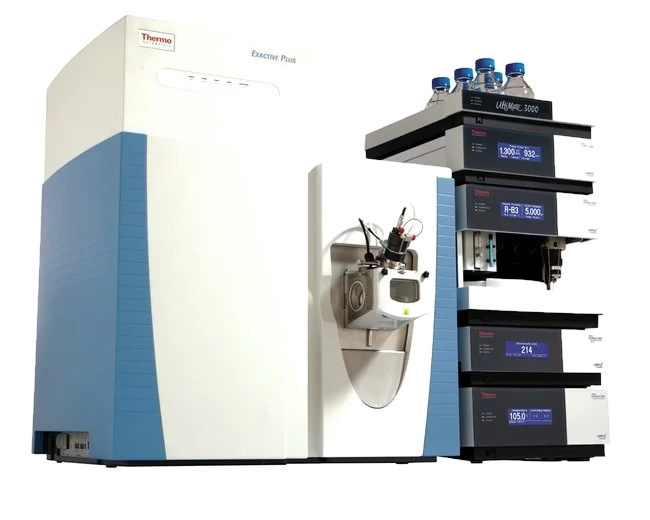
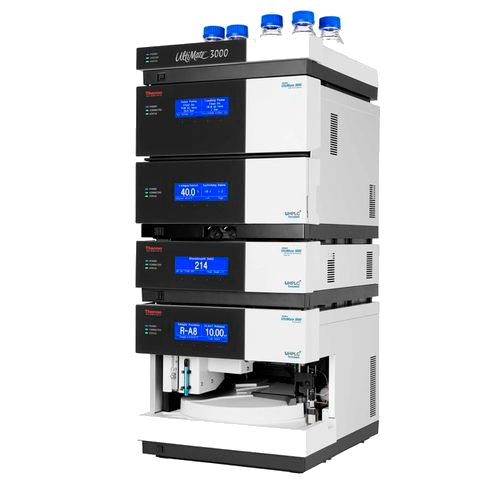
d

diff --git a/sections/experience.html b/sections/experience.html
@@ -347,11 +347,8 @@
 
         <article class="tech-slide">
           <div class="tech-card">
-            <div class="tech-visual tech-visual--grid">
-              <a class="tech-cell tech-cell--contain" href="https://www.thermofisher.com" target="_blank" rel="noopener noreferrer" title="LC–MS · Thermo Scientific Exactive Plus + UltiMate 3000 · Thermo Fisher Scientific"><img src="images/techniques/lc-ms.png" alt="LC–MS — Thermo Scientific Exactive Plus + UltiMate 3000" loading="lazy"></a>
-              <a class="tech-cell" href="https://commons.wikimedia.org/wiki/File:Bendix_Gas_Chromatograph_and_Mass_Spectrometer_-_DPLA_-_8e6bc200668f7d8c0a18e89af1cb3b4c_(page_1).jpg" target="_blank" rel="noopener noreferrer" title="GC–MS · Smithsonian Institution · No restrictions"><img src="images/techniques/gc-ms.jpg" alt="GC–MS instrument" loading="lazy"></a>
-              <a class="tech-cell" href="https://commons.wikimedia.org/wiki/File:Agilent_1200HPLC_and_6130_MS.jpg" target="_blank" rel="noopener noreferrer" title="HPLC–UV · Agilent 1200 · CC BY-SA 4.0"><img src="images/techniques/hplc-uv.jpg" alt="HPLC–UV — Agilent 1200" loading="lazy"></a>
-              <a class="tech-cell" href="https://commons.wikimedia.org/wiki/File:%D0%A5%D0%B8%D0%BC%D0%B8%D1%87%D0%B5%D1%81%D0%BA%D0%B8%D0%B9_%D1%84%D0%B0%D0%BA%D1%83%D0%BB%D1%8C%D1%82%D0%B5%D1%82_%D0%94%D0%BE%D0%BD%D0%9D%D0%A3_015.jpg" target="_blank" rel="noopener noreferrer" title="GC–FID · CC BY-SA 3.0"><img src="images/techniques/gc-fid.jpg" alt="GC–FID instrument" loading="lazy"></a>
+            <div class="tech-visual tech-visual--contain">
+              <img class="tech-product" src="images/techniques/lc-ms.png" alt="LC–MS — Thermo Scientific UltiMate 3000" loading="lazy">
             </div>
             <div class="tech-info">
               <span class="tech-eyebrow" data-pt="Técnica · 01">Technique · 01</span>
@@ -363,7 +360,6 @@
                 <div data-pt="<b>HPLC–UV</b> — Cromatografia Líquida de Alta Eficiência (UV)"><b>HPLC–UV</b> — High-Performance Liquid Chromatography (UV)</div>
                 <div data-pt="<b>GC–FID</b> — Cromatografia Gasosa–Ionização de Chama"><b>GC–FID</b> — Gas Chromatography–Flame Ionization Detection</div>
               </div>
-              <span class="tech-credit-inline">Instrument photos via Wikimedia Commons · click a photo for its source</span>
             </div>
           </div>
         </article>
@@ -373,7 +369,7 @@
 
         <article class="tech-slide">
           <div class="tech-card">
-            <div class="tech-visual"><img class="tech-photo" src="images/techniques/nmr.jpg" alt="" loading="lazy" onerror="this.closest('.tech-visual').classList.add('no-img'); this.remove();"><span class="tech-glyph"><i data-lucide="magnet"></i></span><a class="tech-credit" href="https://commons.wikimedia.org/wiki/File:Bruker_300_MHz_NMR_Spectrometer.jpg" target="_blank" rel="noopener noreferrer">Lihan Yao · CC BY 2.0</a></div>
+            <div class="tech-visual"><img class="tech-photo" src="images/techniques/nmr.jpg" alt="" loading="lazy" onerror="this.closest('.tech-visual').classList.add('no-img'); this.remove();"><span class="tech-glyph"><i data-lucide="magnet"></i></span></div>
             <div class="tech-info">
               <span class="tech-eyebrow" data-pt="Técnica · 02">Technique · 02</span>
               <span class="tech-acr">NMR</span>
@@ -385,7 +381,7 @@
 
         <article class="tech-slide">
           <div class="tech-card">
-            <div class="tech-visual"><img class="tech-photo" src="images/techniques/xrd.jpg" alt="" loading="lazy" onerror="this.closest('.tech-visual').classList.add('no-img'); this.remove();"><span class="tech-glyph"><i data-lucide="grid-3x3"></i></span><a class="tech-credit" href="https://commons.wikimedia.org/wiki/File:%D0%94%D0%B8%D1%84%D1%80%D0%B0%D0%BA%D1%82%D0%BE%D0%BC%D0%B5%D1%82%D1%80_BrukerD8_Advance.jpg" target="_blank" rel="noopener noreferrer">Kvant Jack · CC BY 4.0</a></div>
+            <div class="tech-visual tech-visual--contain"><img class="tech-product" src="images/techniques/xrd.webp" alt="XRD — Bruker D2 PHASER" loading="lazy"></div>
             <div class="tech-info">
               <span class="tech-eyebrow" data-pt="Técnica · 03">Technique · 03</span>
               <span class="tech-acr">XRD</span>
@@ -397,7 +393,7 @@
 
         <article class="tech-slide">
           <div class="tech-card">
-            <div class="tech-visual"><img class="tech-photo" src="images/techniques/ftir.jpg" alt="" loading="lazy" onerror="this.closest('.tech-visual').classList.add('no-img'); this.remove();"><span class="tech-glyph"><i data-lucide="waves"></i></span><a class="tech-credit" href="https://commons.wikimedia.org/wiki/File:FTIR_spectrometer.png" target="_blank" rel="noopener noreferrer">CC BY 4.0 · Wikimedia Commons</a></div>
+            <div class="tech-visual tech-visual--contain"><img class="tech-product" src="images/techniques/ftir.png" alt="FTIR spectrometer" loading="lazy"></div>
             <div class="tech-info">
               <span class="tech-eyebrow" data-pt="Técnica · 04">Technique · 04</span>
               <span class="tech-acr">FTIR</span>
@@ -451,7 +447,7 @@
 
         <article class="tech-slide">
           <div class="tech-card">
-            <div class="tech-visual"><img class="tech-photo" src="images/techniques/mechanochem.jpg" alt="" loading="lazy" onerror="this.closest('.tech-visual').classList.add('no-img'); this.remove();"><span class="tech-glyph"><i data-lucide="hammer"></i></span><a class="tech-credit" href="https://commons.wikimedia.org/wiki/File:8000M_Mixer_Mill_(open)_incl_accessories.jpg" target="_blank" rel="noopener noreferrer">CC BY-SA 3.0 · Wikimedia Commons</a></div>
+            <div class="tech-visual tech-visual--contain"><img class="tech-product" src="images/techniques/mechanochem.png" alt="Ball mill — mechanochemistry" loading="lazy"></div>
             <div class="tech-info">
               <span class="tech-eyebrow" data-pt="Técnica · 08">Technique · 08</span>
               <span class="tech-acr" data-pt="Mecanoquímica">Mechanochemistry</span>

diff --git a/script.js b/script.js
@@ -428,8 +428,8 @@
     const bottom = document.createElement("div");
     top.className = "autoscroll-edge autoscroll-edge--top";
     bottom.className = "autoscroll-edge autoscroll-edge--bottom";
-    top.innerHTML = '<span aria-hidden="true">▲</span>';
-    bottom.innerHTML = '<span aria-hidden="true">▼</span>';
+    top.innerHTML = "";
+    bottom.innerHTML = "";
     document.body.append(top, bottom);
 
     // describe the gesture appropriately per device
@@ -585,41 +585,71 @@
       const firstVisit = (saved === null);
       const on = firstVisit ? true : (saved === "1");
       apply(on, false);
-      if (firstVisit && on) showOffHint();
+      // Whenever hands-free is active, surface the balloon once per browsing
+      // session (so it reliably appears each fresh visit, not only ever-once).
+      if (on) showOffHint();
     }
 
-    // First-visit balloon pointing at the toggle: tells the user how to turn it off.
+    // Balloon pointing at the toggle: reminds the user they can turn it off.
+    // Stays ~10s, or until the user clicks its × close button.
     function showOffHint() {
-      try { if (localStorage.getItem(KEY + "-hint") === "1") return; } catch (_) {}
-      try { localStorage.setItem(KEY + "-hint", "1"); } catch (_) {}
+      try { if (sessionStorage.getItem(KEY + "-hint") === "1") return; } catch (_) {}
+      try { sessionStorage.setItem(KEY + "-hint", "1"); } catch (_) {}
+      const pt = (document.documentElement.getAttribute("lang") === "pt");
       const tip = document.createElement("div");
       tip.className = "hf-hint";
       tip.setAttribute("role", "status");
-      tip.textContent = (document.documentElement.getAttribute("lang") === "pt")
-        ? "Pode desativar aqui." : "You can turn it off here.";
       tip.style.cssText =
-        "position:fixed;z-index:1300;max-width:200px;padding:9px 13px;border-radius:12px;" +
+        "position:fixed;z-index:1300;max-width:236px;padding:10px 12px 10px 14px;border-radius:12px;" +
+        "display:flex;align-items:flex-start;gap:8px;" +
         "background:linear-gradient(135deg,var(--accent-strong,#60a5fa),var(--accent,#7dd3fc));" +
         "color:#04203a;font-family:var(--font-body,system-ui),sans-serif;font-size:.84rem;font-weight:600;" +
         "line-height:1.35;box-shadow:0 12px 30px rgba(0,0,0,.4);opacity:0;transform:translateY(-6px);" +
-        "transition:opacity .3s ease,transform .3s ease;pointer-events:none;";
+        "transition:opacity .3s ease,transform .3s ease;pointer-events:auto;";
+
+      const msg = document.createElement("span");
+      msg.textContent = pt
+        ? "Deslocação automática ativada — clique neste botão para a desativar."
+        : "Hands-free scroll is on — click this button to turn it off.";
+
+      const close = document.createElement("button");
+      close.type = "button";
+      close.setAttribute("aria-label", pt ? "Fechar" : "Dismiss");
+      close.textContent = "×";
+      close.style.cssText =
+        "flex:0 0 auto;margin:-1px -2px 0 0;width:20px;height:20px;line-height:18px;text-align:center;" +
+        "border:0;border-radius:50%;background:rgba(4,32,58,.16);color:#04203a;" +
+        "font-size:15px;font-weight:700;cursor:pointer;padding:0;transition:background .2s ease;";
+      close.addEventListener("mouseenter", () => { close.style.background = "rgba(4,32,58,.30)"; });
+      close.addEventListener("mouseleave", () => { close.style.background = "rgba(4,32,58,.16)"; });
+
       const arrow = document.createElement("span");
       arrow.style.cssText =
         "position:absolute;bottom:100%;right:22px;border:7px solid transparent;border-bottom-color:var(--accent-strong,#60a5fa);";
-      tip.appendChild(arrow);
+
+      tip.append(arrow, msg, close);
       document.body.appendChild(tip);
+
       const place = () => {
         const r = btn.getBoundingClientRect();
         tip.style.top = (r.bottom + 10) + "px";
         tip.style.right = Math.max(10, window.innerWidth - r.right) + "px";
       };
       place();
-      requestAnimationFrame(() => { tip.style.opacity = "1"; tip.style.transform = "translateY(0)"; });
+      requestAnimationFrame(() => { tip.style.opacity = "1"; tip.style.transform = "translateY(0)"; place(); });
+      // re-place after icons hydrate / layout settles so it stays under the button
+      setTimeout(place, 250); setTimeout(place, 700);
       window.addEventListener("resize", place, { passive: true });
-      setTimeout(() => {
+
+      let dismissed = false;
+      const dismiss = () => {
+        if (dismissed) return; dismissed = true;
+        clearTimeout(autoT);
         tip.style.opacity = "0"; tip.style.transform = "translateY(-6px)";
         setTimeout(() => { window.removeEventListener("resize", place); tip.remove(); }, 350);
-      }, 5000);
+      };
+      close.addEventListener("click", dismiss);
+      const autoT = setTimeout(dismiss, 10000);
     }
   }
 
@@ -905,7 +935,7 @@
     "Education":"Educação", "Experience":"Experiência", "Presentations":"Apresentações",
     "Funding":"Financiamento", "Publications":"Publicações", "Academic Tree":"Árvore Académica",
     "News":"Novidades", "Where I have been":"Por onde andei",
-    "Highlights":"Destaques", "Awards":"Prémios", "Courses & Formations":"Cursos e Formações"
+    "Current Work Interests":"Interesses de Trabalho Atuais", "Awards":"Prémios", "Courses & Formations":"Cursos e Formações"
   };
 
   // Section heading icons (Lucide)

diff --git a/ui-extra.css b/ui-extra.css
@@ -327,6 +327,14 @@ html[data-theme="light"] .tech-pager button{ background:rgba(15,23,42,.18); }
 
 /* technique card photos + source credit */
 .tech-photo{ position:absolute; inset:0; width:100%; height:100%; object-fit:cover; z-index:0; }
+/* single product render floated on the section's cosmic gradient (transparent PNG) */
+.tech-visual--contain .tech-product{
+  position:absolute; inset:0; width:100%; height:100%; object-fit:contain;
+  padding:18px; box-sizing:border-box; z-index:1;
+  filter:drop-shadow(0 10px 22px rgba(0,0,0,.5));
+}
+.tech-visual--contain::after{ background:radial-gradient(120% 90% at 60% 12%, rgba(125,211,252,.10), transparent 60%); }
+.tech-visual--contain .tech-glyph{ display:none; }
 .tech-visual:has(.tech-photo)::after{ background:linear-gradient(150deg, rgba(7,12,29,.32), rgba(7,12,29,.66)); }
 .tech-visual:has(.tech-photo) .tech-glyph{ display:none; }
 .tech-visual.no-img .tech-glyph{ display:flex; }

diff --git a/search.js b/search.js
@@ -18,7 +18,7 @@
 
   // Friendly labels for the section badges
   const LABELS = {
-    about: "About", highlights: "Highlights", news: "News", education: "Education", experience: "Experience",
+    about: "About", highlights: "Current Work Interests", news: "News", education: "Education", experience: "Experience",
     presentations: "Presentations", funding: "Funding", publications: "Publications",
     awards: "Awards", tree: "Academic tree", map: "Map", tutoring: "Tutoring", courses: "Courses & Formations"
   };

diff --git a/sections/highlights.html b/sections/highlights.html
@@ -1,6 +1,6 @@
 <!-- HIGHLIGHTS -->
 <section class="section" id="highlights">
-  <h2>Highlights</h2>
+  <h2>Current Work Interests</h2>
   <p class="section-note" data-pt="As questões centrais que orientam a minha investigação atual. Clique num destaque para ler mais.">The central questions driving my current research. Click a highlight to read more.</p>
 
   <div class="highlights reveal" aria-label="Research highlights">
